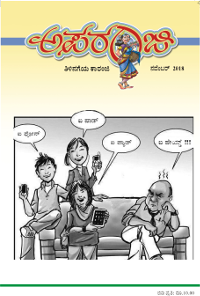
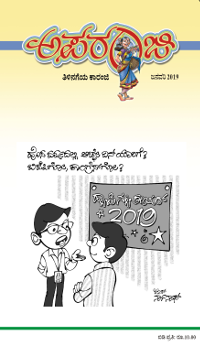
January issue updated

diff --git a/index.php b/index.php
@@ -69,7 +69,7 @@ session_start();
 			$currentmonth=$row['month'];
 			
 			echo "<div class=\"holder\">";
-			echo "<div class=\"holder_title\"><img src=\"php/images/theme.png\" alt=\"Theme Image\"/>&nbsp;<a href=\"Volumes/".$currentyear."_".$currentmonth.".pdf#page=1\" target=\"_blank\">".$month[$currentmonth-1]." ".$currentyear."</a></div>";
+			echo "<div class=\"holder_title\"><img src=\"php/images/theme.png?v-2\" alt=\"Theme Image\"/>&nbsp;<a href=\"Volumes/".$currentyear."_".$currentmonth.".pdf#page=1\" target=\"_blank\">".$month[$currentmonth-1]." ".$currentyear."</a></div>";
 			echo "<div class=\"holder_area\">";
 			$result = $mysqli->query("select * from article where volume = $volume and issue= $issue ");
 			$num_rows=	$result->num_rows;
@@ -91,7 +91,7 @@ session_start();
 			echo "		  </div>
 				</div>";
 				
-			echo "<div class=\"cover\"><a href=\"Volumes/".$currentyear."_".$currentmonth.".pdf#page=1\" target=\"_blank\"><img src=\"php/images/cover1.png\" alt=\"".$month[$currentmonth-1]."\" title=\"".$month[$currentmonth-1]." ಸಂಚಿಕೆ\"/></a></div>";
+			echo "<div class=\"cover\"><a href=\"Volumes/".$currentyear."_".$currentmonth.".pdf#page=1\" target=\"_blank\"><img src=\"php/images/cover.png\" alt=\"".$month[$currentmonth-1]."\" title=\"".$month[$currentmonth-1]." ಸಂಚಿಕೆ\"/></a></div>";
 		?>
 			
 		
